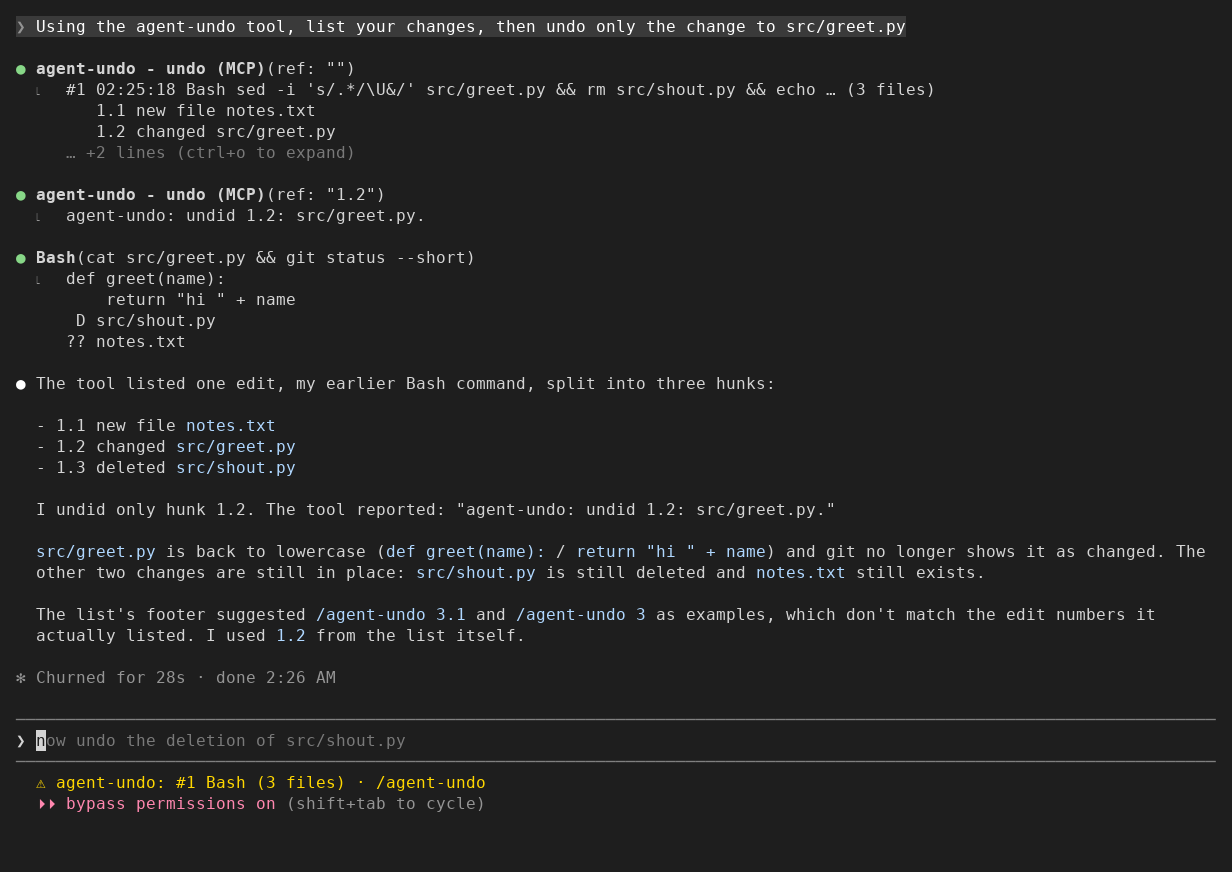
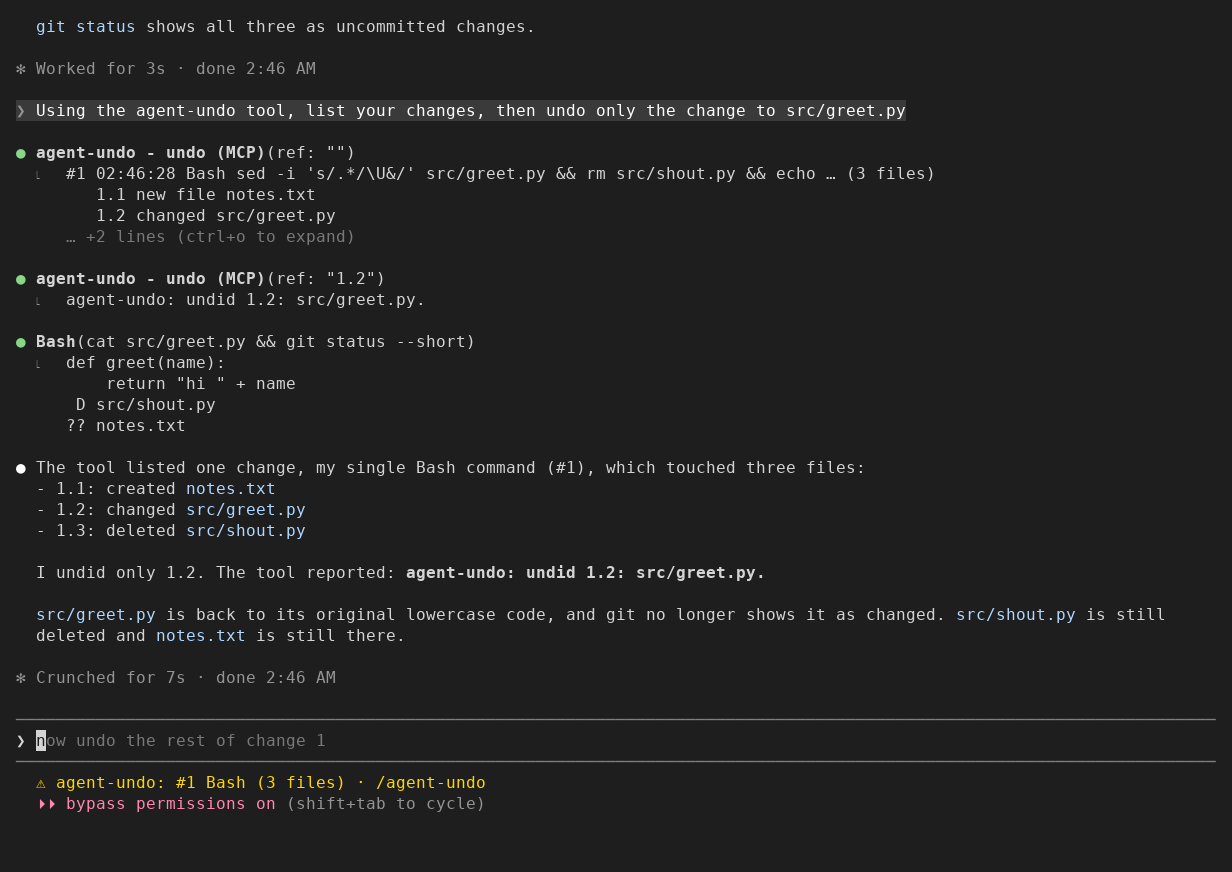
Shell picture from the screen on the released code (preview 024600)

diff --git a/README.md b/README.md
@@ -64,8 +64,8 @@ Seen in a Claude Code 2.1.312 terminal on 2026-11-02, with permissions
 bypassed. One Bash command uppercased `src/greet.py`, deleted `src/shout.py`
 and created `notes.txt`. Claude listed it and undid only 1.2: `greet.py` came
 back, and the other two stayed as the command left them. (The list's last
-line then suggested an example number, "3.1"; it now names the newest
-entry's own number. That line has not yet been seen on a screen.)
+line, which names the newest entry's own number, is folded out of view
+there: not yet seen on a screen.)
 
 - A changed or deleted file comes back as it was just before the command,
   your uncommitted changes included. It is put back only if it still reads
